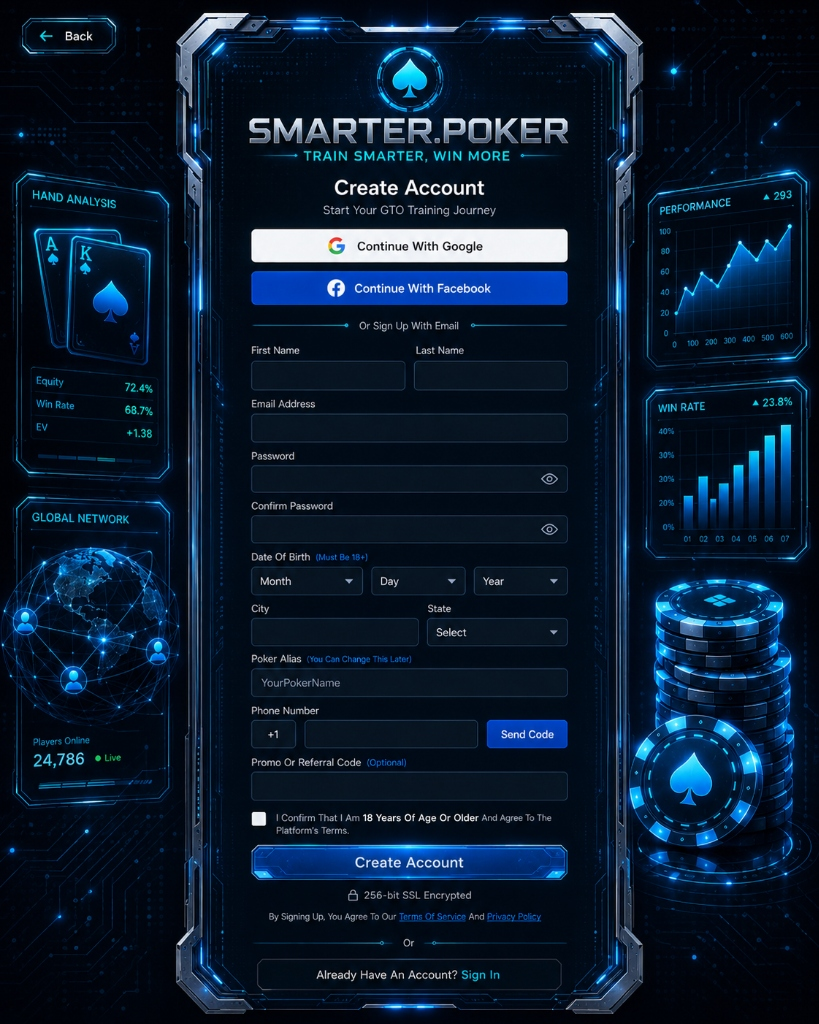
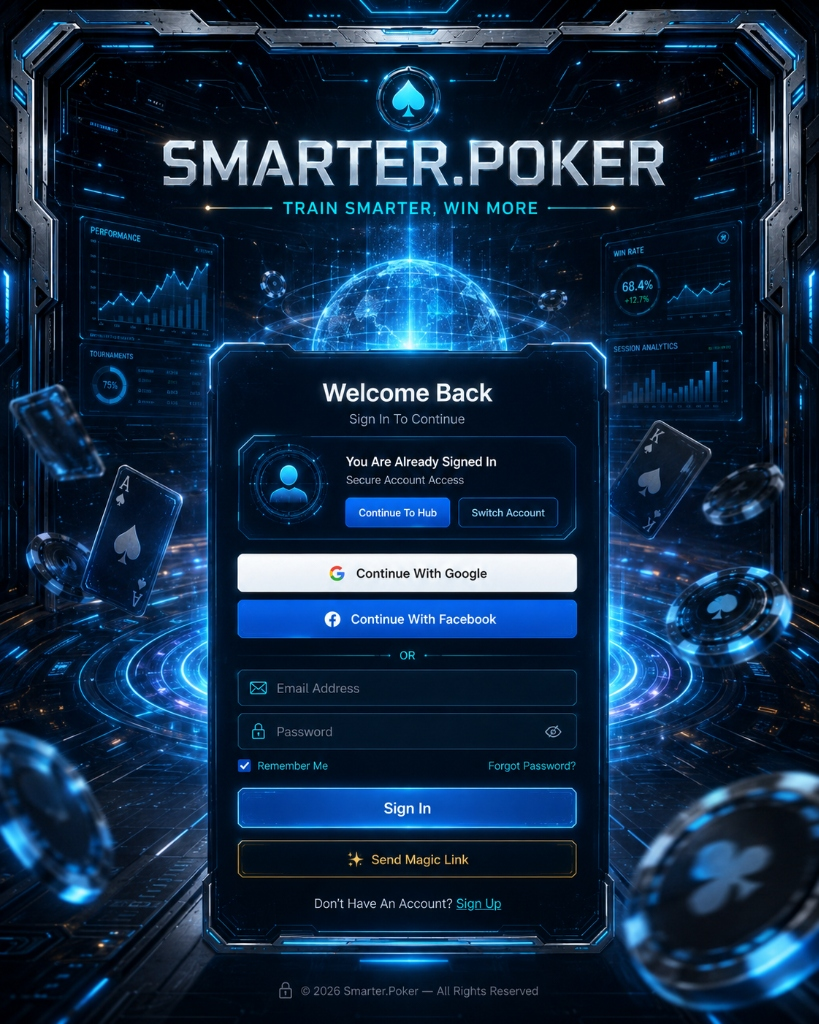
feat: replace login background image and align overlay positions

diff --git a/pages/auth/login.js b/pages/auth/login.js
@@ -384,24 +384,20 @@ export default function LoginPage() {
                 
                 {existingUser && (
                     <div style={{
-                        position: 'absolute', top: '30%', left: '25%', width: '50%', height: '10%',
-                        display: 'flex', flexDirection: 'column', alignItems: 'center', justifyContent: 'center', gap: '8px', zIndex: 10
+                        position: 'absolute', top: '48.5%', left: '30.5%', width: '39%', height: '3.5%',
+                        display: 'flex', alignItems: 'center', justifyContent: 'space-between', zIndex: 10
                     }}>
                         <button
                             onClick={() => { sessionStorage.setItem('just_authenticated', 'true'); router.push('/hub'); }}
-                            style={{ width: '45%', height: '35%', background: 'transparent', border: 'none', cursor: 'pointer', color: 'transparent' }}
+                            style={{ width: '48%', height: '100%', background: 'transparent', border: 'none', cursor: 'pointer', outline: 'none' }}
                             title="Continue To Hub"
-                        >
-                            Continue
-                        </button>
+                        />
                         <button
                             onClick={handleSwitchAccount}
                             disabled={isLoading}
-                            style={{ width: '45%', height: '35%', background: 'transparent', border: 'none', cursor: 'pointer', color: 'transparent' }}
+                            style={{ width: '48%', height: '100%', background: 'transparent', border: 'none', cursor: 'pointer', outline: 'none' }}
                             title="Switch Account"
-                        >
-                            Switch
-                        </button>
+                        />
                     </div>
                 )}
 
@@ -414,7 +410,7 @@ export default function LoginPage() {
                             disabled={!!oauthLoading}
                             title="Continue With Google"
                             style={{
-                                position: 'absolute', top: '53.5%', left: '29%', width: '42%', height: '4.5%',
+                                position: 'absolute', top: '54.5%', left: '29%', width: '42%', height: '4.5%',
                                 background: 'transparent', border: 'none', cursor: oauthLoading ? 'wait' : 'pointer', zIndex: 10,
                                 outline: 'none',
                             }}
@@ -429,7 +425,7 @@ export default function LoginPage() {
                             disabled={!!oauthLoading}
                             title="Continue With Facebook"
                             style={{
-                                position: 'absolute', top: '59%', left: '29%', width: '42%', height: '4.5%',
+                                position: 'absolute', top: '60.5%', left: '29%', width: '42%', height: '4.5%',
                                 background: 'transparent', border: 'none', cursor: oauthLoading ? 'wait' : 'pointer', zIndex: 10,
                                 outline: 'none',
                             }}
@@ -463,7 +459,7 @@ export default function LoginPage() {
                         required
                         autoComplete="email"
                         style={{
-                            position: 'absolute', top: '65.5%', left: '29%', width: '42%', height: '4.5%',
+                            position: 'absolute', top: '66.5%', left: '29%', width: '42%', height: '4.5%',
                             background: email ? '#0b0e14' : 'transparent', border: 'none', color: '#fff', fontSize: '1rem',
                             padding: '0 16px', boxSizing: 'border-box', outline: 'none', zIndex: 10,
                             borderRadius: '4px'
@@ -510,7 +506,7 @@ export default function LoginPage() {
                                 checked={rememberMe}
                                 onChange={(e) => setRememberMe(e.target.checked)}
                                 style={{
-                                    position: 'absolute', top: '77%', left: '29%', width: '1.5%', height: '2%',
+                                    position: 'absolute', top: '74.5%', left: '29%', width: '1.5%', height: '2%',
                                     opacity: 0, cursor: 'pointer', zIndex: 10
                                 }}
                                 title="Remember Me"
@@ -521,7 +517,7 @@ export default function LoginPage() {
                                 type="button"
                                 onClick={() => router.push('/auth/forgot-password')}
                                 style={{
-                                    position: 'absolute', top: '77%', left: '59%', width: '12%', height: '2%',
+                                    position: 'absolute', top: '74.5%', left: '59%', width: '12%', height: '2%',
                                     background: 'transparent', border: 'none', cursor: 'pointer', zIndex: 10
                                 }}
                                 title="Forgot Password"
@@ -535,7 +531,7 @@ export default function LoginPage() {
                         disabled={isLoading}
                         title={mode === 'login' ? 'Sign In' : 'Create Account'}
                         style={{
-                            position: 'absolute', top: '80.5%', left: '29%', width: '42%', height: '4.5%',
+                            position: 'absolute', top: '77.5%', left: '29%', width: '42%', height: '4.5%',
                             background: 'transparent', border: 'none', cursor: isLoading ? 'wait' : 'pointer', zIndex: 10,
                             outline: 'none',
                         }}
@@ -551,7 +547,7 @@ export default function LoginPage() {
                             disabled={isLoading}
                             title="Send Magic Link"
                             style={{
-                                position: 'absolute', top: '86.5%', left: '29%', width: '42%', height: '4.5%',
+                                position: 'absolute', top: '83.5%', left: '29%', width: '42%', height: '4.5%',
                                 background: 'transparent', border: 'none', cursor: isLoading ? 'wait' : 'pointer', zIndex: 10,
                                 outline: 'none',
                             }}
@@ -569,7 +565,7 @@ export default function LoginPage() {
                         setMessage(null);
                     }}
                     style={{
-                        position: 'absolute', top: '92.5%', left: '35%', width: '30%', height: '2%',
+                        position: 'absolute', top: '88.5%', left: '35%', width: '30%', height: '2%',
                         background: 'transparent', border: 'none', cursor: 'pointer', zIndex: 10
                     }}
                     title={mode === 'login' ? 'Sign Up' : 'Sign In'}
